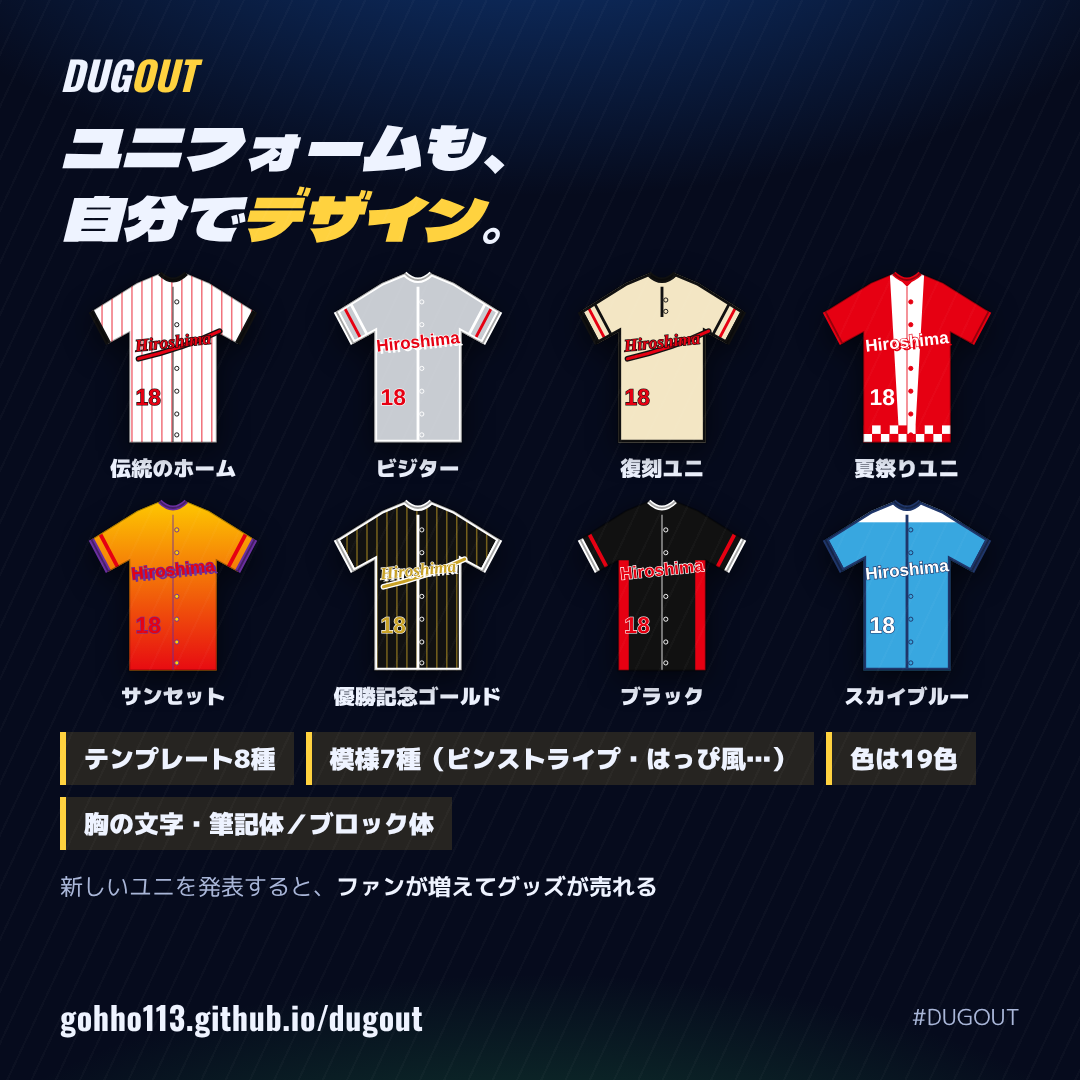
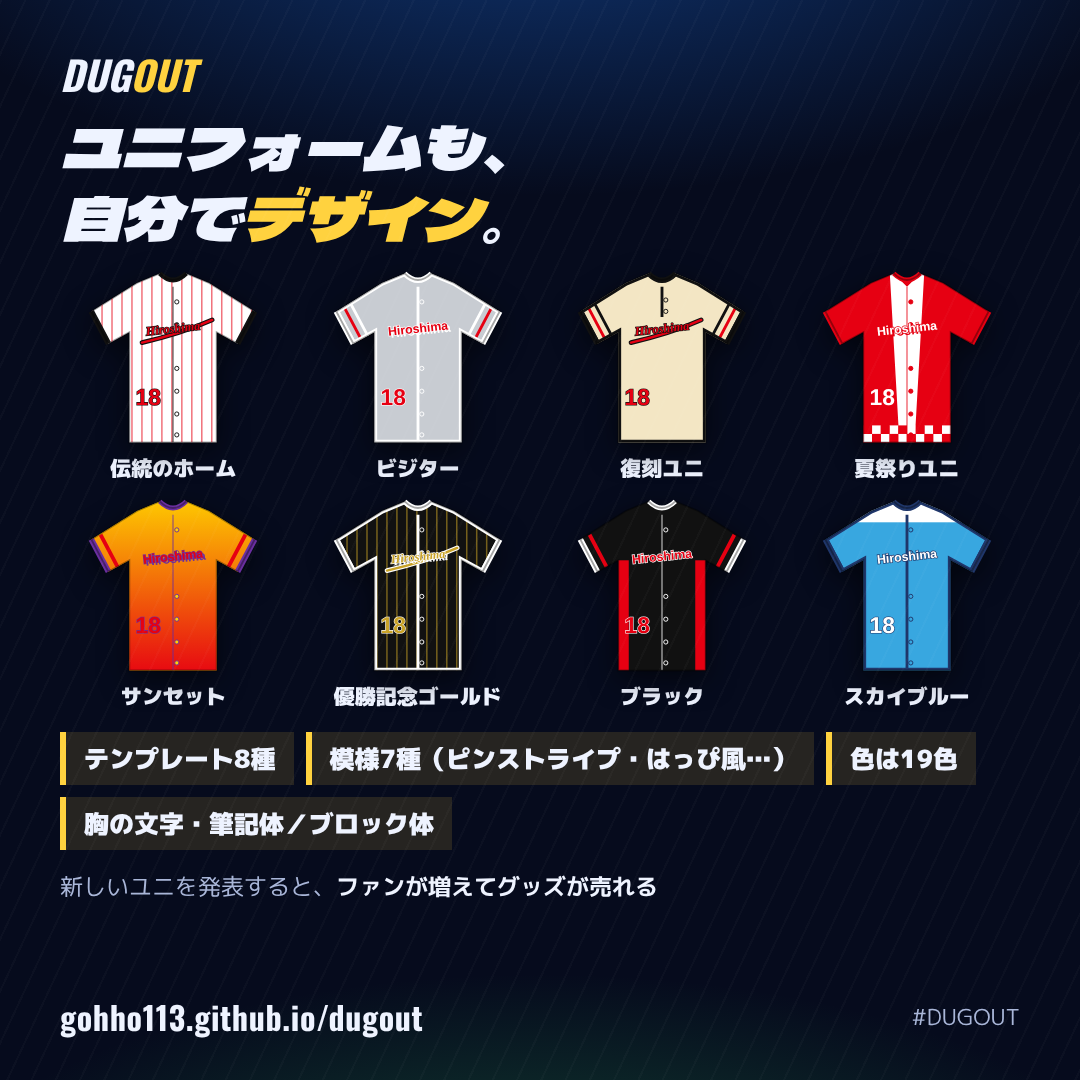
fix: ユニフォームの胸の文字を胸の高さ・大きさに、SNS画像も更新
Claude-Session: https://claude.ai/code/session_0137xRnGeaETaip5rWBMLh5V

diff --git a/script.js b/script.js
@@ -805,11 +805,11 @@ function uniformSVG(u, num = 18) {
     ? `<path d="${shape}" fill="none" stroke="${u.accent}" stroke-width="6"/><path d="M100 26 L100 ${placketEnd}" stroke="${u.accent}" stroke-width="3"/>`
     : `<path d="M100 26 L100 ${placketEnd}" stroke="${u.accent}" stroke-width="1.5" opacity=".6"/>`;
   const t = String(u.text || '').slice(0, 10);
-  const fs = Math.max(13, Math.min(30, Math.round(150 / Math.max(3, t.length) * 1.1)));
+  const fs = Math.max(11, Math.min(18, Math.round(120 / Math.max(4, t.length))));   // 胸におさまる大きさ（短い文字でも大きくしすぎない）
   const font = u.font === 'block' ? `font-family="Impact,'Arial Black',sans-serif" font-weight="900"` : `font-family="'Brush Script MT','Segoe Script',cursive" font-style="italic" font-weight="700"`;
-  const ty = 84 + fs / 3;
+  const ty = 70 + fs / 3;   // 胸の高さ
   const shadow = u.shadow === '1' ? `<text x="102.5" y="${ty + 2.5}" text-anchor="middle" font-size="${fs}" ${font} fill="${u.accent}">${E(t)}</text>` : '';
-  const swoosh = u.swoosh === '1' ? `<path d="M62 ${ty + 8} Q110 ${ty + 2} 150 ${ty - 12}" fill="none" stroke="${u.accent}" stroke-width="6" stroke-linecap="round"/><path d="M62 ${ty + 8} Q110 ${ty + 2} 150 ${ty - 12}" fill="none" stroke="${u.main}" stroke-width="3.2" stroke-linecap="round"/>` : '';
+  const swoosh = u.swoosh === '1' ? `<path d="M66 ${ty + 7} Q108 ${ty + 2} 142 ${ty - 9}" fill="none" stroke="${u.accent}" stroke-width="5" stroke-linecap="round"/><path d="M66 ${ty + 7} Q108 ${ty + 2} 142 ${ty - 9}" fill="none" stroke="${u.main}" stroke-width="2.6" stroke-linecap="round"/>` : '';
   return `<svg class="uni-svg" xmlns="http://www.w3.org/2000/svg" viewBox="0 0 200 200" role="img" aria-label="ユニフォーム">
     <defs><clipPath id="${id}c"><path d="${shape}"/></clipPath>
       <linearGradient id="${id}g" x1="0" y1="0" x2="0" y2="1"><stop offset="0" stop-color="${u.body}"/><stop offset="1" stop-color="${u.main}"/></linearGradient></defs>
@@ -818,7 +818,7 @@ function uniformSVG(u, num = 18) {
     <path d="M86 12 Q100 26 114 12" fill="none" stroke="${u.accent}" stroke-width="5"/>
     <path d="M32 86 L14 52 M168 86 L186 52" stroke="${u.accent}" stroke-width="6"/>
     <path d="${shape}" fill="none" stroke="rgba(0,0,0,.35)" stroke-width="2"/>
-    <g transform="rotate(-6 100 84)">${swoosh}${shadow}
+    <g transform="rotate(-6 100 70)">${swoosh}${shadow}
       <text x="100" y="${ty}" text-anchor="middle" font-size="${fs}" ${font} fill="${u.main}" stroke="${u.accent}" stroke-width="1.4" paint-order="stroke">${E(t)}</text></g>
     <text x="74" y="150" text-anchor="middle" font-size="24" font-family="Impact,'Arial Black',sans-serif" fill="${u.main}" stroke="${u.accent}" stroke-width="1.2" paint-order="stroke">${num}</text>
   </svg>`;

diff --git a/仕様書.md b/仕様書.md
@@ -801,7 +801,7 @@
 | 第2.3版 | 2026-10-18 | ホーム画面に追加（アイコン・全画面表示・追加の案内）。タイトル画面に大きな入口、はじめの設定を短く（GM名を先頭に、しまえる欄、スマホは開始ボタンを固定）、スマホの球団選びを1列に |
 | 第2.4版 | 2026-10-18 | ホーム画面に追加の案内を、iPhone／Android／PCのタブ切りかえにし、iPhone・Androidは3枚の絵で手順を示すように |
 | 第2.5版 | 2026-10-19 | ホーム画面に追加を独立した章（26章）にまとめ、端末ごとの動き・手順の表を追加。図解に7枚目（`仕様書_7.png`）を追加 |
-| 第2.6版 | 2026-10-19 | 成績カードのユニフォームを、スポットライト・光沢・影つきに。優勝・日本一は紙吹雪。胸の文字のはじめを球団のローマ字に |
+| 第2.6版 | 2026-10-19 | 成績カードのユニフォームを、スポットライト・光沢・影つきに。優勝・日本一は紙吹雪。胸の文字のはじめを球団のローマ字にし、胸の高さ・大きさに |
 | 第2.1版 | 2026-10-18 | 今日のお題が毎日ばらばらに変わるように（日付をよく混ぜて種にし、前の日と同じ球団・特別ルールを避ける）。作者表記（© 2026 ゴッホ）・ファンメイド作品・データの扱いのおことわりを追加。就任1年目のGM成績カードの文言を調整 |
 | 第2版 | 2026-10-18 | 図解を6枚に作り直し。成績カード（シェア。シーズン結果／GM成績の2パターン）・はじめてのガイド・選手のドラマ（MVP・成長ストーリー・引退試合・永久欠番・宿敵）・チャレンジモード・今日のお題を追加 |
 | 第1版 | 2026-10-17 | 仕様書を作成。図解（`仕様書_1.png`〜`仕様書_4.png`）を追加 |
